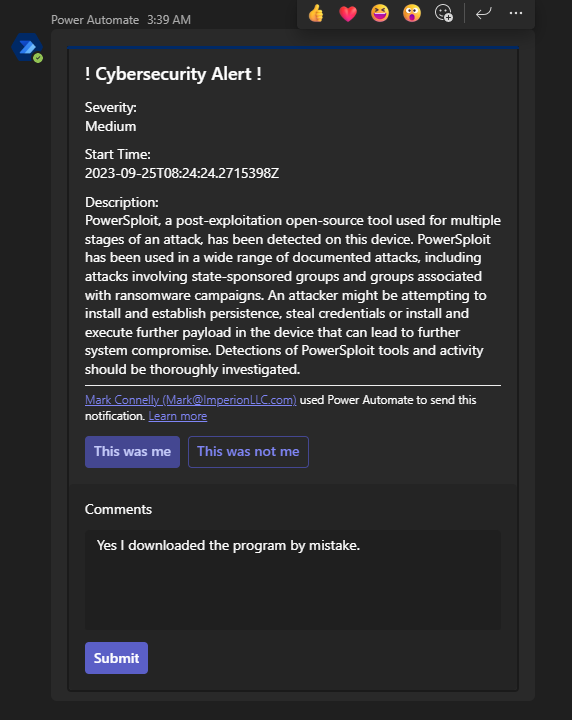
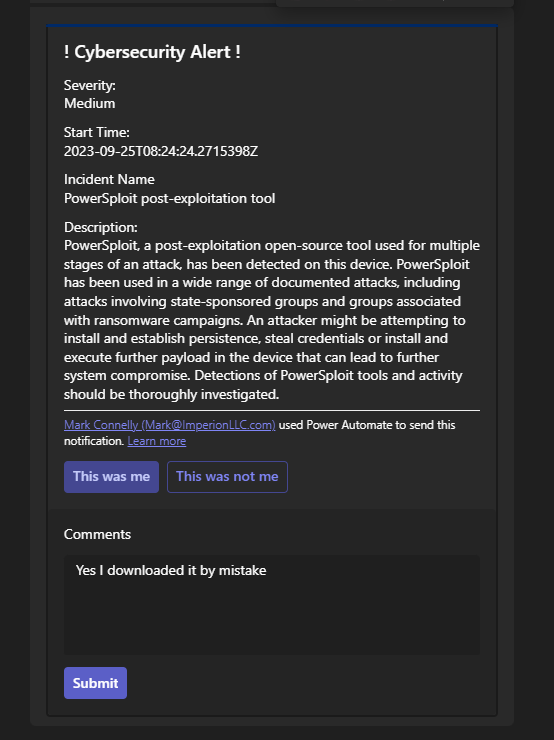
+

Changed region(s): [[0.0, 0.0, 0.8899, 0.6722], [0.1227, 0.7028, 0.6137, 0.7944], [0.0921, 0.8861, 0.2762, 0.9472]]

diff --git a/AlertResponse-NotifyUserWorkflow/README.md b/AlertResponse-NotifyUserWorkflow/README.md
@@ -13,7 +13,7 @@
 ### Step 3 - Playbook executes
 ![Playbook](https://github.com/markdconnelly/MicrosoftSentinelAutomation/blob/main/AlertResponse-NotifyUserWorkflow/03-Sentinel-RunPlaybook.png)
 
-### Step 4 - Email get sent to user asking them if they did that
+### Step 4 - Email gets sent to user asking them if they did that
 ![Email Alert](https://github.com/markdconnelly/MicrosoftSentinelAutomation/blob/main/AlertResponse-NotifyUserWorkflow/04-Email-AlertNotification.png)
 
 ### Step 5 - If they confirm in email, they will get a response like this

diff --git a/AlertResponse-NotifyUserWorkflow/LogicAppCodeFiles/teamsalerttemplate.md b/AlertResponse-NotifyUserWorkflow/LogicAppCodeFiles/teamsalerttemplate.md
@@ -1,8 +1,11 @@
 # Severity:
 SeverityVariableHere
 
-## Start Time:
+# Start Time:
 StartTimeVariableHere
 
-## Description:
+# Incident Name
+IncidentNameVariableHere
+
+# Description:
 > DescriptionVariableHere
